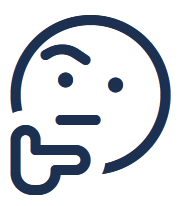
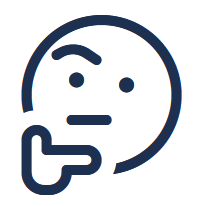
Improve Thinklet block editing labels and layout

diff --git a/thinklet/classes/form/editblock_form.php b/thinklet/classes/form/editblock_form.php
@@ -34,31 +34,8 @@ class editblock_form extends \moodleform {
         $mform->setType('title', PARAM_TEXT);
 
         if ($type === 'reveal') {
-            $mform->addElement(
-                'editor',
-                'leadtext_editor',
-                get_string('leadtext', 'thinklet'),
-                null,
-                $editoroptions
-            );
+            $mform->addElement('editor', 'leadtext_editor', get_string('leadtext', 'thinklet'), null, $editoroptions);
             $mform->setType('leadtext_editor', PARAM_RAW);
-        }
-
-
-
-		if ($type === 'openquestion') {
-    $mform->addElement(
-        'textarea',
-        'initialtext',
-        get_string('initialtext', 'thinklet'),
-        ['rows' => 8, 'cols' => 80]
-    );
-    $mform->setType('initialtext', PARAM_RAW);
-}
-
-        if (in_array($type, ['qcm', 'openquestion', 'reveal'], true)) {
-            $mform->addElement('text', 'buttontext', get_string('buttontext', 'thinklet'), ['size' => 80]);
-            $mform->setType('buttontext', PARAM_TEXT);
         }
 
         $contentlabel = match ($type) {
@@ -74,84 +51,48 @@ class editblock_form extends \moodleform {
         $mform->addElement('editor', 'content_editor', $contentlabel, null, $editoroptions);
         $mform->setType('content_editor', PARAM_RAW);
         $mform->addRule('content_editor', null, 'required', null, 'client');
-								
-	
-
-
-
-	
-if ($type === 'qcm') {
-
-    // Choix entre réponse unique et réponses multiples.
-    $mform->addElement(
-        'select',
-        'selectiontype',
-        get_string('selectiontype', 'thinklet'),
-        [
-            'single'   => get_string('selectiontypesingle', 'thinklet'),
-            'multiple' => get_string('selectiontypemultiple', 'thinklet'),
-        ]
-    );
-    $mform->setDefault('selectiontype', 'multiple');
-
-    // Propositions de réponse.
-    $mform->addElement(
-        'textarea',
-        'choices',
-        get_string('choices', 'thinklet'),
-        ['rows' => 6, 'cols' => 80]
-    );
-    $mform->setType('choices', PARAM_RAW);
-}
 
         if ($type === 'openquestion') {
-            $mform->addElement(
-                'text',
-                'threshold',
-                get_string('threshold', 'thinklet'),
-                ['size' => 8]
-            );
-            $mform->setType('threshold', PARAM_INT);
-            $mform->setDefault('threshold', 120);
+            $mform->addElement('textarea', 'initialtext', get_string('initialtext', 'thinklet'),
+                ['rows' => 8, 'cols' => 80]);
+            $mform->setType('initialtext', PARAM_RAW);
         }
 
-        if ($type === 'roc') {
+        if ($type === 'qcm') {
+            $mform->addElement('select', 'selectiontype', get_string('selectiontype', 'thinklet'), [
+                'single' => get_string('selectiontypesingle', 'thinklet'),
+                'multiple' => get_string('selectiontypemultiple', 'thinklet'),
+            ]);
+            $mform->setDefault('selectiontype', 'multiple');
+            $mform->addElement('textarea', 'choices', get_string('choices', 'thinklet'),
+                ['rows' => 6, 'cols' => 80]);
+            $mform->setType('choices', PARAM_RAW);
+        }
+
+        if ($type === 'openquestion') {
+            $mform->addElement('text', 'threshold', get_string('threshold', 'thinklet'), ['size' => 8]);
+            $mform->setType('threshold', PARAM_INT);
+            $mform->setDefault('threshold', 40);
+        }
+
+        if (in_array($type, ['qcm', 'roc', 'openquestion', 'reveal'], true)) {
             $mform->addElement('text', 'buttontext', get_string('buttontext', 'thinklet'), ['size' => 80]);
             $mform->setType('buttontext', PARAM_TEXT);
         }
 
-if (in_array($type, ['stimulus', 'transition'], true)) {
-    $mform->addElement(
-        'text',
-        'buttontext',
-        get_string('buttontext', 'thinklet'),
-        ['size' => 80]
-    );
-    $mform->setType('buttontext', PARAM_TEXT);
-
-    $mform->addElement(
-        'text',
-        'buttonurl',
-        get_string('buttonurl', 'thinklet'),
-        ['size' => 80]
-    );
-    $mform->setType('buttonurl', PARAM_URL);
-
-    $mform->addElement(
-        'advcheckbox',
-        'buttonnewwindow',
-        get_string('buttonnewwindow', 'thinklet')
-    );
-
-$mform->addElement(
-    'text',
-    'resumeButtonText',
-    get_string('resumebuttontext', 'thinklet'),
-    ['size' => 80]
-);
-$mform->setType('resumeButtonText', PARAM_TEXT);
-	
-}
+        if (in_array($type, ['stimulus', 'transition'], true)) {
+            $mform->addElement('text', 'buttontext', get_string('nextbuttontext', 'thinklet'), ['size' => 80]);
+            $mform->setType('buttontext', PARAM_TEXT);
+            if ($type === 'stimulus') {
+                $mform->addElement('html', '<hr><h3>' . get_string('externalresource', 'thinklet') . '</h3>');
+            }
+            $mform->addElement('text', 'buttonurl', get_string('buttonurl', 'thinklet'), ['size' => 80]);
+            $mform->setType('buttonurl', PARAM_URL);
+            $mform->addElement('advcheckbox', 'buttonnewwindow', get_string('buttonnewwindow', 'thinklet'));
+            $mform->addElement('text', 'resumeButtonText', get_string('resumebuttontext', 'thinklet'),
+                ['size' => 80]);
+            $mform->setType('resumeButtonText', PARAM_TEXT);
+        }
 
         if (in_array($type, ['qcm', 'roc', 'openquestion'], true)) {
             $mform->addElement(

diff --git a/thinklet/edit.php b/thinklet/edit.php
@@ -23,6 +23,7 @@ $PAGE->set_url('/mod/thinklet/edit.php', ['id' => $cm->id]);
 $PAGE->set_title(get_string('editthinklet', 'thinklet'));
 $PAGE->set_heading($course->fullname);
 $PAGE->set_pagelayout('incourse');
+$PAGE->requires->css('/mod/thinklet/styles.css');
 
 echo $OUTPUT->header();
 
@@ -39,22 +40,33 @@ echo $OUTPUT->heading(get_string('addblock', 'thinklet'), 3);
 echo '<div style="display:flex;flex-wrap:wrap;gap:10px;margin-bottom:30px;">';
 
 $buttons = [
-    'stimulus' => get_string('stimulus', 'thinklet'),
-    'qcm' => get_string('qcm', 'thinklet'),
-    'roc' => get_string('roc', 'thinklet'),
-    'openquestion' => get_string('openquestion', 'thinklet'),
-    'reveal' => get_string('reveal', 'thinklet')
+    'stimulus' => ['label' => get_string('stimulus', 'thinklet'), 'icon' => 'M4 2h6l3 3v9H4z M10 2v3h3 M6 8h5 M6 10h5 M6 12h3'],
+    'qcm' => ['label' => get_string('qcm', 'thinklet'), 'icon' => 'M2 3h3v3H2z M7 4h7 M2 9h3v3H2z M7 10h7'],
+    'roc' => ['label' => get_string('roc', 'thinklet'), 'icon' => 'M2 4h12v8H2z M5 7h6 M5 9h4'],
+    'openquestion' => ['label' => get_string('openquestion', 'thinklet'), 'icon' => 'M2 12l1-3 7-7 3 3-7 7z M9 3l3 3 M2 14h12'],
+    'reveal' => ['label' => get_string('reveal', 'thinklet'), 'icon' => 'M1 8s3-5 7-5 7 5 7 5-3 5-7 5-7-5-7-5z M8 6a2 2 0 1 0 0 4 2 2 0 0 0 0-4z']
 ];
-foreach ($buttons as $type => $label) {
+foreach ($buttons as $type => $button) {
 
     $url = new moodle_url('/mod/thinklet/editblock.php', [
         'id' => $cm->id,
         'type' => $type
     ]);
 
+    $icon = html_writer::tag('svg', html_writer::empty_tag('path', [
+        'd' => $button['icon'],
+        'fill' => 'none',
+        'stroke' => 'currentColor',
+        'stroke-width' => '1.5',
+        'stroke-linecap' => 'round',
+        'stroke-linejoin' => 'round'
+    ]), [
+        'width' => '18', 'height' => '18', 'viewBox' => '0 0 16 16',
+        'class' => 'me-2', 'aria-hidden' => 'true', 'focusable' => 'false'
+    ]);
     echo html_writer::link(
         $url,
-        '+ ' . $label,
+        $icon . s($button['label']),
         ['class' => 'btn btn-primary']
     );
 }
@@ -78,6 +90,7 @@ if (!$blocks) {
 
 } else {
 
+    $blocknumber = 1;
     foreach ($blocks as $block) {
 
         $types = [
@@ -95,6 +108,7 @@ if (!$blocks) {
         echo '<div class="card-body">';
 
         echo '<h5 style="margin-bottom:8px;">'
+            . html_writer::span($blocknumber, 'thinklet-number me-2')
             . format_string($block->title)
             . '</h5>';
 
@@ -157,6 +171,7 @@ echo html_writer::link(
 
         echo '</div>';
         echo '</div>';
+        $blocknumber++;
     }
 }
 

diff --git a/thinklet/lang/fr/thinklet.php b/thinklet/lang/fr/thinklet.php
@@ -30,9 +30,9 @@ $string['movedown'] = '↓ Descendre';
 $string['delete'] = 'Supprimer';
 $string['deleteblockconfirm'] = 'Supprimer ce bloc ?';
 $string['stimulus'] = 'Présentation';
-$string['qcm'] = 'QCM réflexif';
+$string['qcm'] = 'QCM';
 $string['roc'] = 'Réponse courte';
-$string['openquestion'] = 'Réponse ouverte';
+$string['openquestion'] = 'Réponse longue';
 $string['reveal'] = 'Révélation';
 $string['transition'] = 'Transition';
 $string['editblock'] = 'Modifier un bloc';
@@ -50,7 +50,7 @@ $string['contentroc'] = 'Question ou consigne';
 $string['contentopenquestion'] = 'Question ou consigne';
 $string['contenttransition'] = 'Contenu de transition';
 $string['contentreveal'] = 'Contenu à révéler';
-$string['feedback'] = 'Éclairage / feedback';
+$string['feedback'] = 'Rétroaction';
 $string['saveblock'] = 'Enregistrer le bloc';
 $string['invalidblocktype'] = 'Type de bloc non valide.';
 $string['invaliddirection'] = 'Direction de déplacement non valide.';
@@ -64,3 +64,5 @@ $string['selectiontype'] = 'Type de réponse';
 $string['selectiontypesingle'] = 'Une seule réponse possible';
 $string['selectiontypemultiple'] = 'Plusieurs réponses possibles';
 $string['nextbuttontext'] = 'Texte du bouton suivant';
+
+$string['externalresource'] = 'Appel à une activité ou ressource externe';

diff --git a/thinklet/lang/en/thinklet.php b/thinklet/lang/en/thinklet.php
@@ -30,9 +30,9 @@ $string['movedown'] = '↓ Move down';
 $string['delete'] = 'Delete';
 $string['deleteblockconfirm'] = 'Delete this block?';
 $string['stimulus'] = 'Presentation';
-$string['qcm'] = 'Reflective MCQ';
+$string['qcm'] = 'MCQ';
 $string['roc'] = 'Short answer';
-$string['openquestion'] = 'Open response';
+$string['openquestion'] = 'Long answer';
 $string['reveal'] = 'Reveal';
 $string['transition'] = 'Transition';
 $string['editblock'] = 'Edit a block';
@@ -50,7 +50,7 @@ $string['contentroc'] = 'Question or instruction';
 $string['contentopenquestion'] = 'Question or instruction';
 $string['contenttransition'] = 'Transition content';
 $string['contentreveal'] = 'Content to reveal';
-$string['feedback'] = 'Explanation / feedback';
+$string['feedback'] = 'Feedback';
 $string['saveblock'] = 'Save block';
 $string['invalidblocktype'] = 'Invalid block type.';
 $string['invaliddirection'] = 'Invalid move direction.';
@@ -64,3 +64,5 @@ $string['selectiontype'] = 'Response type';
 $string['selectiontypesingle'] = 'One answer only';
 $string['selectiontypemultiple'] = 'Multiple answers';
 $string['nextbuttontext'] = 'Next button text';
+
+$string['externalresource'] = 'Link to an external activity or resource';

diff --git a/thinklet/editblock.php b/thinklet/editblock.php
@@ -143,7 +143,7 @@ if ($type === 'qcm') {
 }
 
 if ($type === 'openquestion') {
-    $toform->threshold = $options->threshold ?? 120;
+    $toform->threshold = $options->threshold ?? 40;
     $toform->initialtext = $options->initialtext ?? '';
 				    $toform->nextbuttontext = $options->nextbuttontext ?? get_string('continue', 'thinklet');
 }
@@ -168,7 +168,7 @@ if ($data = $mform->get_data()) {
     $newoptions = new stdClass();
 
 if ($type === 'openquestion') {
-    $newoptions->threshold = $data->threshold ?? 120;
+    $newoptions->threshold = $data->threshold ?? 40;
     $newoptions->initialtext = $data->initialtext ?? '';
     $newoptions->buttontext = $data->buttontext ?? get_string('showpossiblesolution', 'thinklet');
 

diff --git a/thinklet/view.php b/thinklet/view.php
@@ -393,7 +393,7 @@ foreach ($blocks as $block) {
 
         case 'openquestion':
 
-            $threshold = $options->threshold ?? 120;
+            $threshold = $options->threshold ?? 40;
             $buttontext = $options->buttontext
                 ?? get_string('showpossiblesolution', 'thinklet');
             $initialtext = $options->initialtext ?? '';
@@ -849,7 +849,7 @@ document.addEventListener('DOMContentLoaded', function () {
         .forEach(function(textarea) {
 
             const threshold =
-                parseInt(textarea.dataset.threshold || 120);
+                parseInt(textarea.dataset.threshold || 40);
 
             const button =
                 document.getElementById(textarea.dataset.button);
